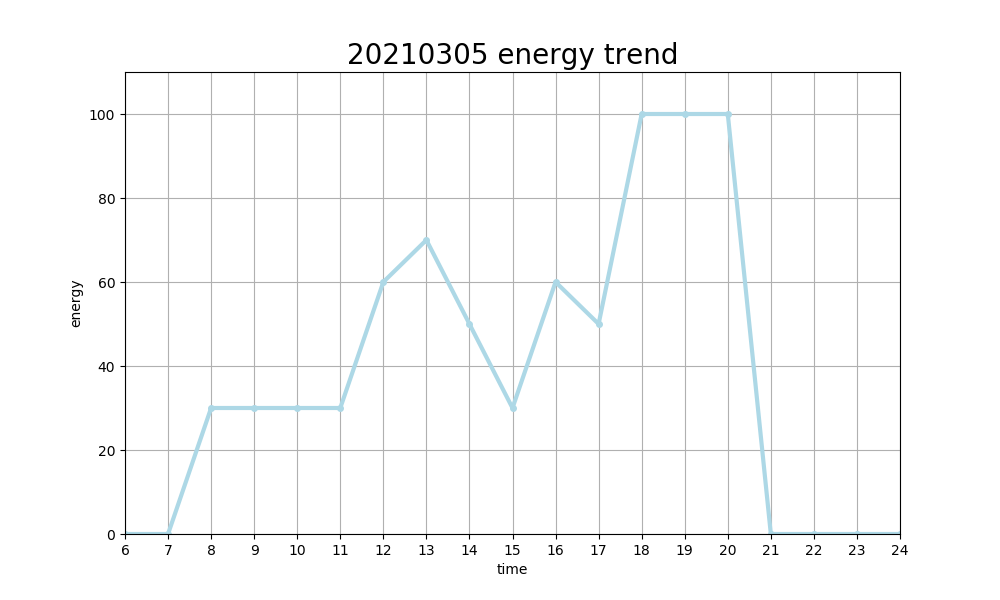
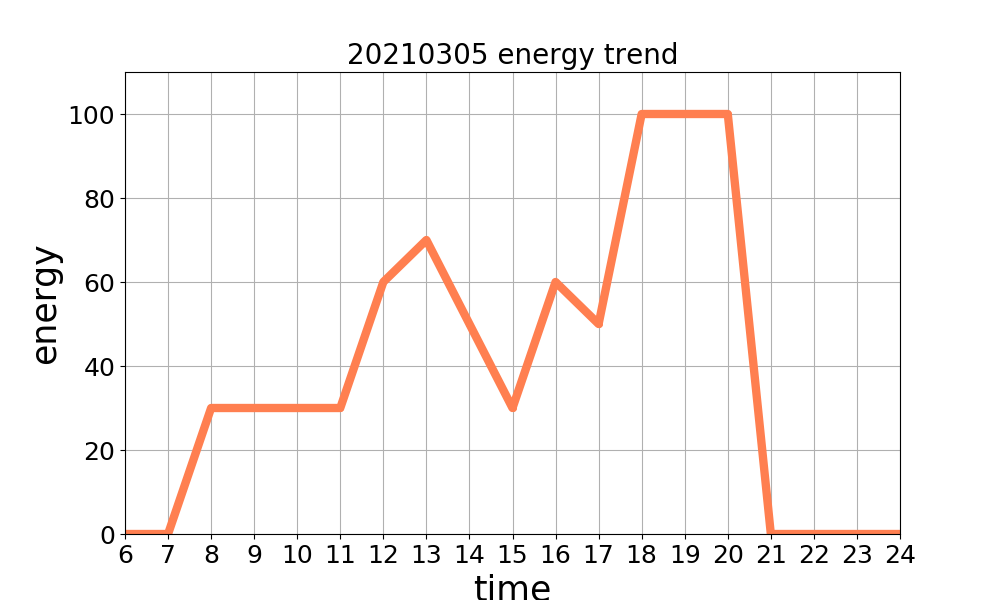
透明

diff --git a/time_process_day.py b/time_process_day.py
@@ -20,8 +20,10 @@ import numpy as np
 import pandas as pd
 from timeprocess_utils import *
 import matplotlib.pyplot as plt
-
-
+# plt.style.use('seaborn-dark-palette')
+def plt_savefig(*args,**kwargs):
+    kwargs['transparent']=True
+    return plt.savefig(*args,**kwargs)
 def get_args():
     optParser = OptionParser(usage="%prog [-i] [-o]", version="%prog 1.0",
                              description="A time processing tools for IDP learning")
@@ -77,7 +79,7 @@ if __name__ == '__main__':
             t.set_size(26)
         for t in p_text:
             t.set_size(1)
-        plt.savefig(args.output_dir+input_sg + '-efficience_pie_chart.png')
+        plt_savefig(args.output_dir+input_sg + '-efficience_pie_chart.png')
         print(args.output_dir+input_sg + '-efficience_pie_chart.png has been saved......')
 
         m = get_timematrix_ratio(input_df)
@@ -94,7 +96,7 @@ if __name__ == '__main__':
             t.set_size(26)
         for t in p_text:
             t.set_size(1)
-        plt.savefig(args.output_dir+input_sg + '-time_matrix_pie_chart.png')
+        plt_savefig(args.output_dir+input_sg + '-time_matrix_pie_chart.png')
         print(args.output_dir+input_sg + '-time_matrix_pie_chart.png has been saved......')
 
         tag_df = handle_input_df(input_df)
@@ -103,19 +105,21 @@ if __name__ == '__main__':
         x = np.arange(6, 25, 1)  # x坐标
         plt.figure(figsize=(10, 6))
         plt.title(in_date + ' energy trend', fontsize=20)
+        
         plt.plot(x, np.array(time_div_list),
-                 lw=3, c='lightblue',
+                 c='coral',
                  marker='o',
                  ms=4,
-                 label='Y1')  # 绘制y1
+                 label='Y1',linewidth=6)  # 绘制y1
         plt.xticks(x)  # x轴的刻度
         plt.grid()
         plt.xlim(6, 24)  # x轴坐标范围
         plt.ylim(0, 110)  # y轴坐标范围
-        plt.xlabel('time')  # x轴标注
-        plt.ylabel('energy')  # y轴标注
+        plt.xlabel('time',fontdict={'weight':'normal','size': 25})  # x轴标注
+        plt.ylabel('energy',fontdict={'weight':'normal','size': 25})  # y轴标注
+        plt.tick_params(labelsize=18)
         # plt.legend()  # 图例
-        plt.savefig(args.output_dir+input_sg + '-energy_trend.png')  # 保存图片
+        plt_savefig(args.output_dir+input_sg + '-energy_trend.png')  # 保存图片
         print(args.output_dir+input_sg + '-energy_trend.png has been saved......')
         shutil.rmtree(args.temp_dir)
     except Exception as e:

diff --git a/generate_wallpaper.py b/generate_wallpaper.py
@@ -9,12 +9,12 @@ def image_write_text(img,text, left, top, textColor, textSize):
     return img
 if __name__=="__main__":
     parser = argparse.ArgumentParser(description='A wallpaper generate tool for IDP learning.')
-    parser.add_argument('--wallpaper', type=str,default=r"wallpaper.jpg", help='input wallpaper picture path')
+    parser.add_argument('--wallpaper', type=str,default=r"wallpaper.png", help='input wallpaper picture path')
     parser.add_argument('--chartpng', type=str,required=True, nargs=3,help='input hart pictures paths')
-    parser.add_argument('--output', type=str,default=r"wallpaper_new.jpg", help='output wallpaper picture path')
+    parser.add_argument('--output', type=str,default=r"wallpaper_new.png", help='output wallpaper picture path')
     parser.add_argument('--font', type=int,default=20, help='font size')
     args = parser.parse_args()
-    img = Image.open(args.wallpaper)
+    img = Image.open(args.wallpaper).convert('RGBA')
     
     try:
         with open("wallpaper_text.txt",'r',encoding='utf-8')as f:
@@ -33,12 +33,16 @@ if __name__=="__main__":
     r'pics/20210305-zjj-efficience_pie_chart.png'
     r'pics/20210305-zjj-energy_trend.png'
     r'pics/20210305-zjj-time_matrix_pie_chart.png'
-    img_1 = Image.open(args.chartpng[0]).resize((weight,height))
-    img_2 = Image.open(args.chartpng[1]).resize((weight,height))
-    img_3 = Image.open(args.chartpng[2]).resize((weight,height))
-    img.paste(img_1,(int(img.size[0]*(0.809-weight_ratio/2)),gap))
-    img.paste(img_2,(int(img.size[0]*(0.809-weight_ratio/2)),gap+(gap+height)))
-    img.paste(img_3,(int(img.size[0]*(0.809-weight_ratio/2)),gap+(gap+height)*2))
+    img_1 = Image.open(args.chartpng[0]).resize((weight,height)).convert('RGBA')
+    img_2 = Image.open(args.chartpng[1]).resize((weight,height)).convert('RGBA')
+    img_3 = Image.open(args.chartpng[2]).resize((weight,height)).convert('RGBA')
+    
+    r, g, b, a = img_1.split()
+    img.paste(img_1,(int(img.size[0]*(0.809-weight_ratio/2)),gap),mask=a)
+    r, g, b, a = img_2.split()
+    img.paste(img_2,(int(img.size[0]*(0.809-weight_ratio/2)),gap+(gap+height)),mask=a)
+    r, g, b, a = img_3.split()
+    img.paste(img_3,(int(img.size[0]*(0.809-weight_ratio/2)),gap+(gap+height)*2),mask=a)
 
     img.save(args.output)
     print('already generated')

diff --git a/change_wallpaper.py b/change_wallpaper.py
@@ -13,7 +13,7 @@ def setWallPaper(pic):
 """
 if __name__=="__main__":
     parser = argparse.ArgumentParser(description='A wallpaper change tool for IDP learning.')
-    parser.add_argument('--wallpaper', type=str,default=r"wallpaper_new.jpg", help='wallpaper picture path')
+    parser.add_argument('--wallpaper', type=str,default=r"wallpaper_new.png", help='wallpaper picture path')
     args = parser.parse_args()
     setWallPaper(os.path.join(os.getcwd(),args.wallpaper))
     print('already change wallpaper')

diff --git a/README.md b/README.md
@@ -11,7 +11,7 @@
 - 新增了更换为桌面壁纸功能
 - 适配了windows的编码方式，默认为ansi (mac默认是utf-8)
 生成壁纸为
-![image](https://github.com/zhaojinjian0000/time_analysis/blob/master/wallpaper_new.jpg)
+![image](https://github.com/zhaojinjian0000/time_analysis/blob/master/wallpaper_new.png)
 ## 安装
 - 安装python并添加到路径
 - 下载该项目并解压，进入到解压文件夹
@@ -28,7 +28,7 @@
 ###### 如何修改内容
 - 如何修改壁纸左下方文字：在wallpaper_text.txt中修改，修改后运行change_wallpaper.bat
 - 如何修改壁纸左下方文字大小：右键change_wallpaper.bat编辑，在"set  fontsize=40"一行，修改40为想要的值，修改后运行change_wallpaper.bat（注：修改change_wallpaper.bat内的某个值/文本后，需要数值/文本前后都不能留空格）
-- 如何修改壁纸背景：修改wallpaper.jpg，修改后运行change_wallpaper.bat（图片大小变化后，可能导致左下方文字大小异常，按上述修改）
+- 如何修改壁纸背景：修改wallpaper.png，修改后运行change_wallpaper.bat（图片大小变化后，可能导致左下方文字大小异常，按上述修改）
 - 如何修改某一天的时间表：修改csvs/20210305-zjj.csv，修改后运行change_wallpaper.bat
 - 如何新增一天的时间表：在csvs文件夹内新建"日期-项目名称.csv"，右键change_wallpaper.bat编辑，在"set  name=20210305-zjj"一行，修改20210305-zjj为想要的"日期-项目名称.csv",修改后运行change_wallpaper.bat（注：修改change_wallpaper.bat内的某个值/文本后，需要数值/文本前后都不能留空格）
 
